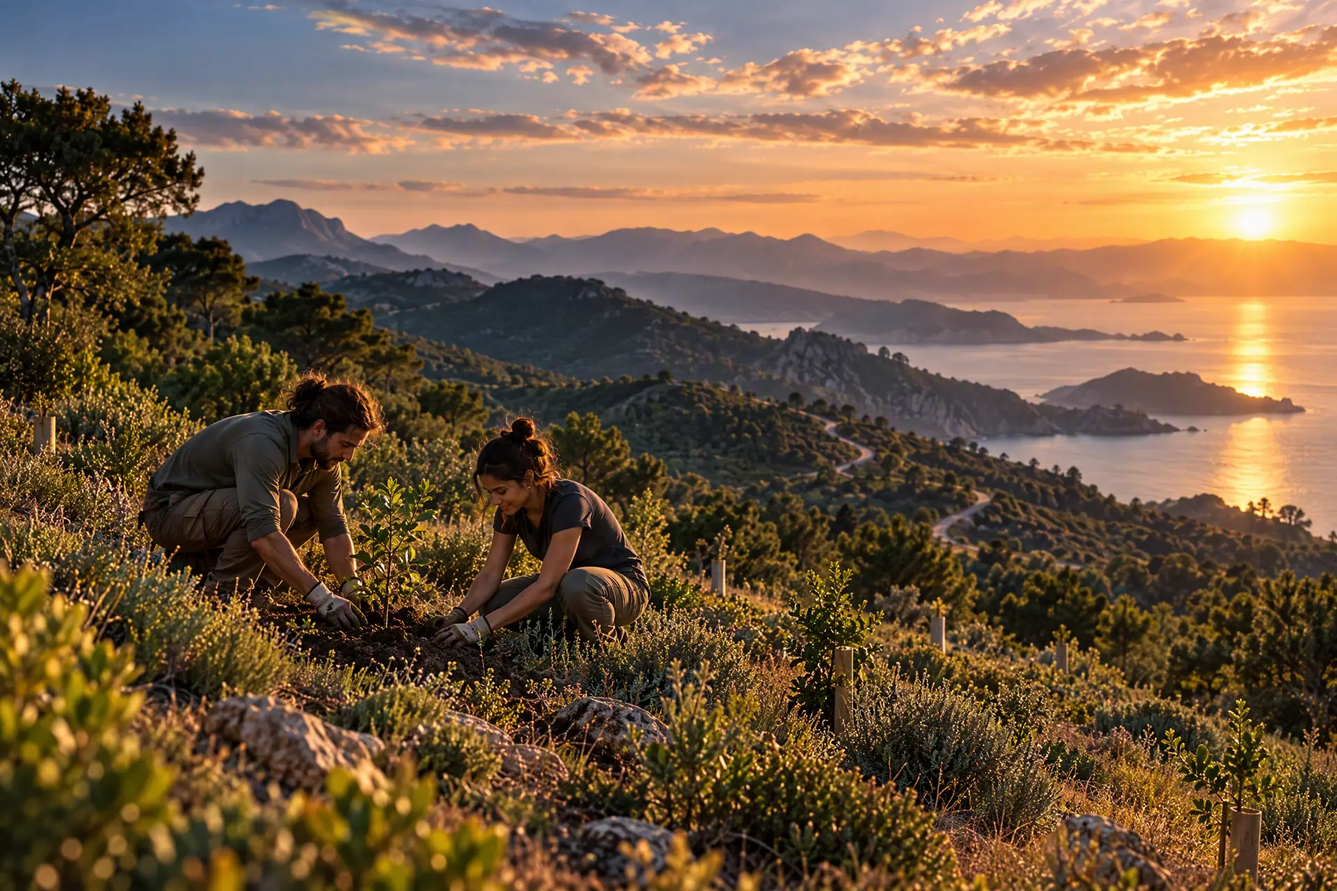
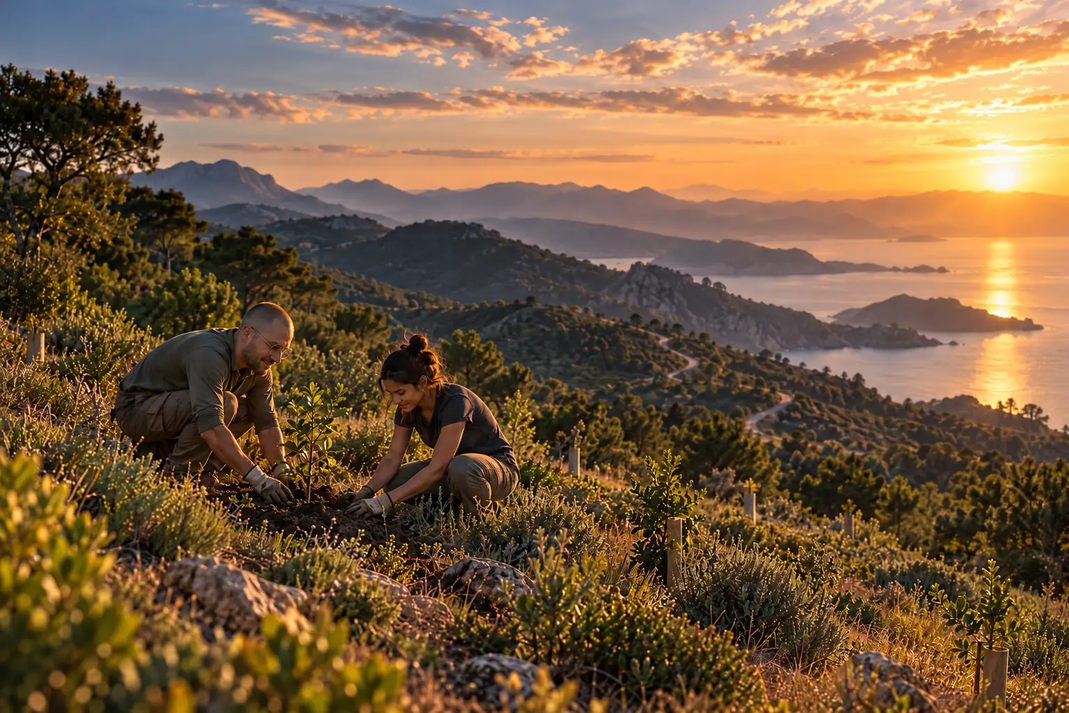
News, Erasmus+/ESC OID and new photos
- Five news items built into the site (ES/EN/RU/UK), shown together with
  the Google Sheet news and present in the prerendered HTML.
- Erasmus+ / European Solidarity Corps OID E10445982 on the identity page
  and in the footer.
- New photos: people photos replace community, planting, team, horizon and
  learning; new river, coast and whale images for Ideology, News and Mission
  heroes; branded images for news cards.

Claude-Session: https://claude.ai/code/session_01RTgsmULxAXM4gvJsgFLPDE

diff --git a/client/src/lib/siteNews.ts b/client/src/lib/siteNews.ts
@@ -1,0 +1,69 @@
+import type { NewsItem } from "./content";
+
+/**
+ * News published with the website itself. They are always shown, together with
+ * the news added in the "Noticias" tab of the Google Sheet (newest first).
+ * One entry per language; Asturian falls back to Spanish.
+ */
+type Lang = "es" | "en" | "ru" | "uk";
+type Story = { id: string; fecha: string; imagen: string; enlace?: string; text: Record<Lang, { titulo: string; resumen: string; texto: string }> };
+
+const stories: Story[] = [
+  {
+    id: "nueva-web-2026", fecha: "2026-10-26", imagen: "/assets/photos/spiral-logo-960.webp",
+    text: {
+      es: { titulo: "Estrenamos web: más clara, más rápida y en cinco idiomas", resumen: "La nueva web de INICIA Foundation reúne en un solo lugar nuestros proyectos, las formas de colaborar y el acceso directo a la ayuda.", texto: "Hemos renovado por completo nuestra web para que cualquier persona encuentre lo que necesita en pocos segundos: pedir ayuda, apuntarse como voluntario/a, proponer una alianza o hacer un donativo.\n\nLa web está disponible en español, inglés, ruso, ucraniano y asturiano, funciona en cualquier móvil y carga rápido incluso con conexiones lentas. El catálogo de proyectos muestra el estado real de cada iniciativa, para que quien quiera sumarse sepa en qué punto estamos.\n\nEs un paso más hacia una organización abierta, transparente y cercana." },
+      en: { titulo: "Our new website: clearer, faster and in five languages", resumen: "INICIA Foundation's new website brings together our projects, ways to get involved and direct access to help.", texto: "We have completely renewed our website so that anyone can find what they need in seconds: ask for help, sign up as a volunteer, propose a partnership or make a donation.\n\nThe site is available in Spanish, English, Russian, Ukrainian and Asturian, works on any phone and loads quickly even on slow connections. The project catalogue shows the real status of each initiative, so anyone who wants to join knows where we stand.\n\nIt is one more step towards an open, transparent and approachable organisation." },
+      ru: { titulo: "Новый сайт: понятнее, быстрее и на пяти языках", resumen: "На новом сайте INICIA Foundation собраны наши проекты, способы участия и прямой доступ к помощи.", texto: "Мы полностью обновили сайт, чтобы каждый за несколько секунд находил нужное: попросить о помощи, записаться волонтёром, предложить сотрудничество или сделать пожертвование.\n\nСайт работает на испанском, английском, русском, украинском и астурийском языках, удобен на любом телефоне и быстро загружается даже при медленном интернете. В каталоге проектов указан реальный статус каждой инициативы — чтобы тот, кто хочет присоединиться, видел, на каком этапе мы находимся.\n\nЭто ещё один шаг к открытой, прозрачной и близкой людям организации." },
+      uk: { titulo: "Новий сайт: зрозуміліший, швидший і п’ятьма мовами", resumen: "На новому сайті INICIA Foundation зібрані наші проєкти, способи долучитися та прямий доступ до допомоги.", texto: "Ми повністю оновили сайт, щоб кожен за кілька секунд знаходив потрібне: попросити про допомогу, записатися волонтером, запропонувати співпрацю або зробити пожертву.\n\nСайт працює іспанською, англійською, російською, українською та астурійською мовами, зручний на будь-якому телефоні та швидко завантажується навіть за повільного інтернету. У каталозі проєктів зазначено реальний статус кожної ініціативи — щоб той, хто хоче долучитися, бачив, на якому етапі ми перебуваємо.\n\nЦе ще один крок до відкритої, прозорої та близької до людей організації." },
+    },
+  },
+  {
+    id: "erasmus-esc-2026", fecha: "2026-10-26", imagen: "/assets/photos/sea-logo-960.webp",
+    text: {
+      es: { titulo: "Con nueva fuerza en Erasmus+ y el Cuerpo Europeo de Solidaridad", resumen: "Este otoño damos un nuevo impulso a nuestro trabajo en los programas europeos de juventud, aprendizaje y voluntariado.", texto: "INICIA Foundation cuenta con su identificador de organización en los programas europeos (OID E10445982), la llave para participar en Erasmus+ y en el Cuerpo Europeo de Solidaridad.\n\nEn octubre retomamos este trabajo con nueva fuerza: preparamos proyectos de cooperación e intercambios de aprendizaje y avanzamos hacia el sello de calidad para acoger a jóvenes voluntarios y voluntarias de toda Europa.\n\nQueremos que las personas y familias que acompañamos, y nuestros equipos de voluntariado, formen parte de una red europea de aprendizaje y solidaridad." },
+      en: { titulo: "Renewed energy in Erasmus+ and the European Solidarity Corps", resumen: "This autumn we are giving new momentum to our work in the European youth, learning and volunteering programmes.", texto: "INICIA Foundation holds its organisation ID for the European programmes (OID E10445982), the key to taking part in Erasmus+ and the European Solidarity Corps.\n\nIn October we are taking this work forward with renewed energy: we are preparing cooperation projects and learning exchanges, and working towards the quality label for hosting young volunteers from all over Europe.\n\nWe want the people and families we support, and our volunteer teams, to be part of a European network of learning and solidarity." },
+      ru: { titulo: "С новыми силами в Erasmus+ и Европейском корпусе солидарности", resumen: "Этой осенью мы даём новый импульс работе в европейских программах для молодёжи, обучения и волонтёрства.", texto: "У INICIA Foundation есть идентификатор организации в европейских программах (OID E10445982) — ключ к участию в Erasmus+ и Европейском корпусе солидарности.\n\nВ октябре мы с новыми силами берёмся за эту работу: готовим проекты сотрудничества и образовательные обмены, движемся к знаку качества для приёма молодых волонтёров со всей Европы.\n\nМы хотим, чтобы люди и семьи, которых мы сопровождаем, и наши волонтёрские команды стали частью европейской сети обучения и солидарности." },
+      uk: { titulo: "З новими силами в Erasmus+ і Європейському корпусі солідарності", resumen: "Цієї осені ми даємо новий імпульс роботі в європейських програмах для молоді, навчання та волонтерства.", texto: "INICIA Foundation має ідентифікатор організації в європейських програмах (OID E10445982) — ключ до участі в Erasmus+ і Європейському корпусі солідарності.\n\nУ жовтні ми з новими силами беремося за цю роботу: готуємо проєкти співпраці та освітні обміни, рухаємося до знака якості для прийому молодих волонтерів з усієї Європи.\n\nМи хочемо, щоб люди та родини, яких ми супроводжуємо, і наші волонтерські команди стали частиною європейської мережі навчання та солідарності." },
+    },
+  },
+  {
+    id: "redes-sociales-2026", fecha: "2026-10-26", imagen: "/assets/photos/community-960.webp", enlace: "https://iniciafoundation.org/contacto?tipo=voluntariado",
+    text: {
+      es: { titulo: "Impulsamos nuestras redes sociales: ¿te sumas al equipo?", resumen: "En octubre empezamos a desarrollar nuestras redes sociales y buscamos personas voluntarias que quieran ayudarnos a contar lo que hacemos.", texto: "Queremos que más personas conozcan nuestros proyectos y que quien necesita ayuda nos encuentre fácilmente. Por eso, desde octubre estamos desarrollando nuestras redes sociales.\n\nSi te gusta la fotografía, el vídeo, el diseño, la redacción o la gestión de redes, este es tu sitio. No hace falta experiencia profesional: lo importante son las ganas de aprender y de contar historias que inspiran.\n\nApúntate como voluntario/a eligiendo «Comunicación, redes y diseño» en el formulario." },
+      en: { titulo: "We are growing our social media: will you join the team?", resumen: "In October we started developing our social media and we are looking for volunteers to help us tell our story.", texto: "We want more people to know about our projects and those who need help to find us easily. That is why, since October, we have been developing our social media.\n\nIf you enjoy photography, video, design, writing or social media, this is your place. No professional experience needed: what matters is the wish to learn and to tell inspiring stories.\n\nSign up as a volunteer and choose “Communication, social media and design” in the form." },
+      ru: { titulo: "Развиваем соцсети: присоединяйтесь к команде!", resumen: "В октябре мы начали развивать наши социальные сети и ищем волонтёров, которые помогут рассказывать о нашей работе.", texto: "Мы хотим, чтобы о наших проектах узнало больше людей, а те, кому нужна помощь, легко нас находили. Поэтому с октября мы развиваем наши социальные сети.\n\nЕсли вам нравятся фото, видео, дизайн, тексты или ведение соцсетей — вам к нам. Профессиональный опыт не обязателен: главное — желание учиться и рассказывать вдохновляющие истории.\n\nЗапишитесь волонтёром и выберите в форме «Соцсети, дизайн, коммуникации»." },
+      uk: { titulo: "Розвиваємо соцмережі: долучайтеся до команди!", resumen: "У жовтні ми почали розвивати наші соціальні мережі та шукаємо волонтерів, які допоможуть розповідати про нашу роботу.", texto: "Ми хочемо, щоб про наші проєкти дізналося більше людей, а ті, кому потрібна допомога, легко нас знаходили. Тому з жовтня ми розвиваємо наші соціальні мережі.\n\nЯкщо вам подобаються фото, відео, дизайн, тексти або ведення соцмереж — вам до нас. Професійний досвід не обов’язковий: головне — бажання вчитися та розповідати надихаючі історії.\n\nЗапишіться волонтером і оберіть у формі «Соцмережі, дизайн, комунікації»." },
+    },
+  },
+  {
+    id: "noviembre-diciembre-2026", fecha: "2026-10-26", imagen: "/assets/photos/river-logo-960.webp",
+    text: {
+      es: { titulo: "Noviembre y diciembre: llegan nuevas actividades", resumen: "Estamos preparando actividades y encuentros para el final del año. Muy pronto, todos los detalles.", texto: "Cerramos el año con energía: para noviembre y diciembre estamos preparando nuevas actividades, encuentros y acciones solidarias abiertas a familias, voluntariado y entidades colaboradoras.\n\nPublicaremos aquí las fechas y la forma de participar. Sigue esta sección de noticias y nuestras redes sociales; muy pronto abriremos también nuestro boletín de novedades.\n\n¿Quieres proponer una actividad o colaborar en su organización? Escríbenos." },
+      en: { titulo: "November and December: new activities are coming", resumen: "We are preparing activities and gatherings for the end of the year. Full details very soon.", texto: "We are closing the year with energy: for November and December we are preparing new activities, gatherings and solidarity actions open to families, volunteers and partner organisations.\n\nWe will publish the dates and how to take part here. Follow this news section and our social media; we will soon also launch our newsletter.\n\nWould you like to propose an activity or help organise one? Write to us." },
+      ru: { titulo: "Ноябрь и декабрь: впереди новые мероприятия", resumen: "Мы готовим мероприятия и встречи к концу года. Подробности — совсем скоро.", texto: "Мы завершаем год с энергией: на ноябрь и декабрь готовим новые мероприятия, встречи и благотворительные акции, открытые для семей, волонтёров и партнёрских организаций.\n\nДаты и способы участия опубликуем здесь. Следите за новостями и нашими соцсетями — совсем скоро мы также запустим рассылку новостей.\n\nХотите предложить мероприятие или помочь его организовать? Напишите нам." },
+      uk: { titulo: "Листопад і грудень: попереду нові заходи", resumen: "Ми готуємо заходи та зустрічі на кінець року. Подробиці — зовсім скоро.", texto: "Ми завершуємо рік з енергією: на листопад і грудень готуємо нові заходи, зустрічі та благодійні акції, відкриті для родин, волонтерів і партнерських організацій.\n\nДати та способи участі опублікуємо тут. Стежте за новинами та нашими соцмережами — зовсім скоро ми також запустимо розсилку новин.\n\nХочете запропонувати захід або допомогти його організувати? Напишіть нам." },
+    },
+  },
+  {
+    id: "google-nonprofits-2026", fecha: "2026-10-26", imagen: "/assets/photos/horizon-960.webp",
+    text: {
+      es: { titulo: "Google reconoce a INICIA como entidad sin ánimo de lucro", resumen: "Hemos sido verificados en Google for Nonprofits y aprobados en el programa de YouTube para organizaciones sin ánimo de lucro.", texto: "INICIA Foundation ha sido verificada en Google for Nonprofits, el programa con el que Google apoya a entidades sociales de todo el mundo, y ha sido admitida en el programa de YouTube para organizaciones sin ánimo de lucro.\n\nEstas herramientas nos ayudan a trabajar mejor en equipo, a difundir nuestros proyectos y a llegar a más personas que necesitan apoyo o que quieren colaborar, sin coste para la organización.\n\nCada recurso que ahorramos se destina a lo esencial: acompañar a las familias y hacer crecer nuestros proyectos." },
+      en: { titulo: "Google recognises INICIA as a non-profit organisation", resumen: "We have been verified in Google for Nonprofits and approved for YouTube's nonprofit programme.", texto: "INICIA Foundation has been verified in Google for Nonprofits, the programme through which Google supports social organisations worldwide, and has been accepted into YouTube's nonprofit programme.\n\nThese tools help us work better as a team, share our projects and reach more people who need support or want to help, at no cost to the organisation.\n\nEvery resource we save goes to what matters: supporting families and growing our projects." },
+      ru: { titulo: "Google признал INICIA некоммерческой организацией", resumen: "Мы прошли верификацию в Google for Nonprofits и приняты в программу YouTube для некоммерческих организаций.", texto: "INICIA Foundation прошла верификацию в Google for Nonprofits — программе, через которую Google поддерживает социальные организации по всему миру, — и принята в программу YouTube для некоммерческих организаций.\n\nЭти инструменты помогают нам лучше работать командой, рассказывать о проектах и доходить до большего числа людей, которым нужна поддержка или которые хотят помочь, — без затрат для организации.\n\nКаждый сэкономленный ресурс идёт на главное: сопровождение семей и развитие наших проектов." },
+      uk: { titulo: "Google визнав INICIA неприбутковою організацією", resumen: "Ми пройшли верифікацію в Google for Nonprofits і прийняті до програми YouTube для неприбуткових організацій.", texto: "INICIA Foundation пройшла верифікацію в Google for Nonprofits — програмі, через яку Google підтримує соціальні організації по всьому світу, — і прийнята до програми YouTube для неприбуткових організацій.\n\nЦі інструменти допомагають нам краще працювати командою, розповідати про проєкти та охоплювати більше людей, яким потрібна підтримка або які хочуть допомогти, — без витрат для організації.\n\nКожен заощаджений ресурс іде на головне: супровід родин і розвиток наших проєктів." },
+    },
+  },
+];
+
+export const SITE_NEWS: NewsItem[] = stories.flatMap(story =>
+  (Object.keys(story.text) as Lang[]).map(idioma => ({
+    id: `${story.id}-${idioma}`, fecha: story.fecha, imagen: story.imagen, enlace: story.enlace ?? "", proyecto: "", idioma, ...story.text[idioma],
+  })),
+);
+
+/** Sheet news and built-in stories together, newest first (stable for equal dates). */
+export function withSiteNews(news: NewsItem[]): NewsItem[] {
+  const ids = new Set(news.map(item => item.id));
+  return [...news, ...SITE_NEWS.filter(item => !ids.has(item.id))].sort((a, b) => (b.fecha || "").localeCompare(a.fecha || ""));
+}

diff --git a/client/src/pages/LegalIdentity.tsx b/client/src/pages/LegalIdentity.tsx
@@ -1,4 +1,4 @@
-import { Building2, FileCheck2, MapPin } from "lucide-react";
+import { Building2, FileCheck2, Globe2, MapPin } from "lucide-react";
 import { OriginalSiteNavigation } from "@/components/OriginalSiteNavigation";
 import { SiteFooter } from "@/components/SiteFooter";
 import { type Locale, useLocale } from "@/lib/i18n";
@@ -13,6 +13,8 @@ type LegalCopy = {
   registryTitle: string;
   registryNote: string;
   registryNumber: string;
+  europeTitle: string;
+  europeText: string;
   pendingTitle: string;
   pendingText: string;
 };
@@ -28,6 +30,8 @@ const copy: Record<Locale, LegalCopy> = {
     registryTitle: "Registro",
     registryNote: "",
     registryNumber: "Número de inscripción 13148",
+    europeTitle: "Programas europeos",
+    europeText: "Identificador de organización (OID) en Erasmus+ y el Cuerpo Europeo de Solidaridad",
     pendingTitle: "Documentos en validación jurídica",
     pendingText: "La política de privacidad, el canal de derechos ARCO-POL, el plazo de conservación, las condiciones de socio/a, las cuotas, los eventuales beneficios fiscales, el acuerdo de incorporación de voluntariado y sus seguros solo se publicarán cuando la organización aporte sus versiones definitivas aprobadas. El portal no presenta estos documentos como vigentes mientras ese proceso está pendiente.",
   },
@@ -41,6 +45,8 @@ const copy: Record<Locale, LegalCopy> = {
     registryTitle: "Registry",
     registryNote: "(Register of Associations of the Principality of Asturias)",
     registryNumber: "Registration number 13148",
+    europeTitle: "European programmes",
+    europeText: "Organisation ID (OID) for Erasmus+ and the European Solidarity Corps",
     pendingTitle: "Documents under legal review",
     pendingText: "The privacy policy, the channel for exercising data protection rights (ARCO-POL), the data retention period, membership conditions, fees, any tax benefits, the volunteer agreement and its insurance will only be published once the organisation provides their final approved versions. While this process is pending, the website does not present these documents as being in force.",
   },
@@ -54,6 +60,8 @@ const copy: Record<Locale, LegalCopy> = {
     registryTitle: "Реестр",
     registryNote: "(Реестр ассоциаций Княжества Астурия)",
     registryNumber: "Регистрационный номер 13148",
+    europeTitle: "Европейские программы",
+    europeText: "Идентификатор организации (OID) в Erasmus+ и Европейском корпусе солидарности",
     pendingTitle: "Документы на юридической проверке",
     pendingText: "Политика конфиденциальности, порядок реализации прав субъектов персональных данных (ARCO-POL), срок хранения данных, условия членства, членские взносы, возможные налоговые льготы, соглашение о волонтёрской деятельности и страхование волонтёров будут опубликованы только после того, как организация предоставит их окончательные утверждённые редакции. Пока этот процесс не завершён, сайт не представляет эти документы как действующие.",
   },
@@ -67,6 +75,8 @@ const copy: Record<Locale, LegalCopy> = {
     registryTitle: "Реєстр",
     registryNote: "(Реєстр асоціацій Князівства Астурія)",
     registryNumber: "Реєстраційний номер 13148",
+    europeTitle: "Європейські програми",
+    europeText: "Ідентифікатор організації (OID) в Erasmus+ і Європейському корпусі солідарності",
     pendingTitle: "Документи на юридичній перевірці",
     pendingText: "Політику конфіденційності, порядок реалізації прав суб’єктів персональних даних (ARCO-POL), строк зберігання даних, умови членства, членські внески, можливі податкові пільги, угоду про волонтерську діяльність і страхування волонтерів буде опубліковано лише після того, як організація надасть їхні остаточні затверджені редакції. Доки цей процес не завершено, сайт не подає ці документи як чинні.",
   },
@@ -80,6 +90,8 @@ const copy: Record<Locale, LegalCopy> = {
     registryTitle: "Rexistru",
     registryNote: "(Rexistru d'Asociaciones del Principáu d'Asturies)",
     registryNumber: "Númberu d'inscripción 13148",
+    europeTitle: "Programes européos",
+    europeText: "Identificador d'organización (OID) n'Erasmus+ y nel Cuerpu Européu de Solidaridá",
     pendingTitle: "Documentos en validación xurídica",
     pendingText: "La política de privacidá, la canal de derechos ARCO-POL, el plazu de caltenimientu, les condiciones de sociu/a, les cuotes, los eventuales beneficios fiscales, l'alcuerdu d'incorporación de voluntariáu y los sos seguros namás se van publicar cuando la organización apurra les sos versiones definitives aprobaes. El portal nun presenta estos documentos como vixentes mentanto esi procesu tea pendiente.",
   },
@@ -90,10 +102,11 @@ export default function LegalIdentity() {
   const t = copy[locale];
   return <main className="min-h-screen bg-[#060A12] text-[#EEE7D7]"><OriginalSiteNavigation dark />
     <section className="mx-auto max-w-5xl px-5 py-16"><p className="text-sm font-bold uppercase tracking-[.18em] text-[#D6B25E]">{t.eyebrow}</p><h1 className="mt-3 font-serif text-5xl text-[#EEE7D7]">{t.title}</h1><p className="mt-5 max-w-3xl text-lg leading-8 text-slate-300">{t.intro}</p>
-      <div className="mt-10 grid gap-5 md:grid-cols-3">
+      <div className="mt-10 grid gap-5 md:grid-cols-2 lg:grid-cols-4">
         <article className="rounded-2xl border border-[#D6B25E]/20 bg-[#0C1320] p-6 shadow-sm"><Building2 className="h-6 w-6 text-[#D6B25E]" /><h2 className="mt-4 font-serif text-2xl text-[#EEE7D7]">{t.entityTitle}</h2><p className="mt-3 text-sm leading-6 text-slate-300"><strong>ASOCIACIÓN Inicia Foundation</strong><br />NIF/CIF: G05426242<br />{t.scope}</p></article>
         <article className="rounded-2xl border border-[#D6B25E]/20 bg-[#0C1320] p-6 shadow-sm"><MapPin className="h-6 w-6 text-[#D6B25E]" /><h2 className="mt-4 font-serif text-2xl text-[#EEE7D7]">{t.addressTitle}</h2><p className="mt-3 text-sm leading-6 text-slate-300">Avenida Manuel Llaneza, 68<br />Gijón, Asturias, España</p></article>
         <article className="rounded-2xl border border-[#D6B25E]/20 bg-[#0C1320] p-6 shadow-sm"><FileCheck2 className="h-6 w-6 text-[#D6B25E]" /><h2 className="mt-4 font-serif text-2xl text-[#EEE7D7]">{t.registryTitle}</h2><p className="mt-3 text-sm leading-6 text-slate-300">Registro de Asociaciones del Principado de Asturias{t.registryNote && <><br /><span className="text-slate-400">{t.registryNote}</span></>}<br />{t.registryNumber}</p></article>
+        <article className="rounded-2xl border border-[#D6B25E]/20 bg-[#0C1320] p-6 shadow-sm"><Globe2 className="h-6 w-6 text-[#D6B25E]" /><h2 className="mt-4 font-serif text-2xl text-[#EEE7D7]">{t.europeTitle}</h2><p className="mt-3 text-sm leading-6 text-slate-300">{t.europeText}<br /><strong className="text-[#F0D893]">OID: E10445982</strong></p></article>
       </div>
       <section className="mt-10 rounded-3xl border border-[#D6B25E]/50 bg-[#D6B25E]/10 p-7"><h2 className="font-serif text-3xl text-[#EEE7D7]">{t.pendingTitle}</h2><p className="mt-3 max-w-3xl leading-7 text-slate-200">{t.pendingText}</p></section>
     </section>

diff --git a/client/src/pages/News.tsx b/client/src/pages/News.tsx
@@ -25,7 +25,7 @@ export default function News() {
 
   return <main className="min-h-screen bg-[#060A12] text-[#EEE7D7]">
     <OriginalSiteNavigation dark />
-    <section className="relative isolate overflow-hidden bg-[#060A12] bg-[#08101E] px-5 pt-28 pb-24 text-white"><img src="/assets/photos/earth-1920.webp" srcSet="/assets/photos/earth-960.webp 960w, /assets/photos/earth-1920.webp 1920w" sizes="100vw" alt="" fetchPriority="high" className="absolute inset-0 -z-20 h-full w-full object-cover" /><div className="absolute inset-0 -z-10 bg-gradient-to-r from-[#060A12] via-[#060A12]/80 to-[#060A12]/25" /><div className="absolute inset-x-0 bottom-0 -z-10 h-32 bg-gradient-to-t from-[#060A12] to-transparent" /><SpiralMark className="pointer-events-none absolute -right-20 -top-6 -z-10 hidden h-[400px] w-[400px] opacity-40 md:block" /><div className="relative mx-auto max-w-6xl"><p className="text-xs font-bold uppercase tracking-[.2em] text-[#D6B25E]">{t.eyebrow}</p><h1 className="mt-4 font-serif text-5xl md:text-6xl">{t.title} <span className="italic text-[#F0D893]">{t.accent}</span></h1><p className="mt-5 max-w-2xl text-lg leading-8 text-slate-200">{t.intro}</p></div></section>
+    <section className="relative isolate overflow-hidden bg-[#060A12] bg-[#08101E] px-5 pt-28 pb-24 text-white"><img src="/assets/photos/coast-1920.webp" srcSet="/assets/photos/coast-960.webp 960w, /assets/photos/coast-1920.webp 1920w" sizes="100vw" alt="" fetchPriority="high" className="absolute inset-0 -z-20 h-full w-full object-cover" /><div className="absolute inset-0 -z-10 bg-gradient-to-r from-[#060A12] via-[#060A12]/80 to-[#060A12]/25" /><div className="absolute inset-x-0 bottom-0 -z-10 h-32 bg-gradient-to-t from-[#060A12] to-transparent" /><SpiralMark className="pointer-events-none absolute -right-20 -top-6 -z-10 hidden h-[400px] w-[400px] opacity-40 md:block" /><div className="relative mx-auto max-w-6xl"><p className="text-xs font-bold uppercase tracking-[.2em] text-[#D6B25E]">{t.eyebrow}</p><h1 className="mt-4 font-serif text-5xl md:text-6xl">{t.title} <span className="italic text-[#F0D893]">{t.accent}</span></h1><p className="mt-5 max-w-2xl text-lg leading-8 text-slate-200">{t.intro}</p></div></section>
 
     {events.length > 0 && <section className="mx-auto max-w-6xl px-5 pt-14"><h2 className="font-serif text-3xl">{t.events}</h2><div className="mt-5 grid gap-4 md:grid-cols-3">{events.map(event => <article key={`${event.fecha}-${event.titulo}`} className="rounded-2xl bg-[#0C1320] p-5 shadow-sm ring-1 ring-[#D6B25E]/20"><p className="flex items-center gap-2 text-xs font-bold uppercase tracking-[.14em] text-[#D6B25E]"><CalendarDays className="h-4 w-4" />{formatDate(event.fecha, locale)}{event.hora && ` · ${event.hora}`}</p><h3 className="mt-2 font-serif text-2xl">{event.titulo}</h3>{event.lugar && <p className="mt-1 text-sm text-slate-300">{event.lugar}</p>}<a href={event.enlace || "/contacto"} className="mt-3 inline-flex text-sm font-bold underline decoration-[#D6B25E] decoration-2 underline-offset-4">{t.join}</a></article>)}</div></section>}
 
@@ -34,7 +34,7 @@ export default function News() {
         : <div className="grid gap-6 md:grid-cols-2 lg:grid-cols-3">{news.map(item => <article key={item.id} className="flex flex-col overflow-hidden rounded-3xl bg-[#0C1320] shadow-sm ring-1 ring-[#D6B25E]/20">
           {item.imagen ? <img src={item.imagen} alt="" loading="lazy" className="aspect-[16/10] w-full object-cover" /> : <div className="relative aspect-[16/10] w-full overflow-hidden bg-[#0A1424]"><SpiralMark className="absolute inset-6 opacity-40" /></div>}
           <div className="flex flex-1 flex-col p-6"><p className="text-xs font-bold uppercase tracking-[.14em] text-[#D6B25E]">{formatDate(item.fecha, locale)}{item.proyecto && ` · ${item.proyecto}`}</p><h2 className="mt-3 font-serif text-2xl leading-tight">{item.titulo}</h2><p className="mt-3 text-sm leading-6 text-slate-300">{item.resumen}</p>
-            {open === item.id && item.texto && <div className="mt-4 whitespace-pre-line text-sm leading-7 text-slate-200">{item.texto}</div>}
+            {item.texto && <div hidden={open !== item.id} className="mt-4 whitespace-pre-line text-sm leading-7 text-slate-200">{item.texto}</div>}
             <div className="mt-auto flex flex-wrap gap-4 pt-5">{item.texto && <button type="button" onClick={() => setOpen(open === item.id ? undefined : item.id)} className="text-sm font-bold underline decoration-[#D6B25E] decoration-2 underline-offset-4">{open === item.id ? t.less : t.more}</button>}{item.enlace && <a href={item.enlace} target="_blank" rel="noreferrer" className="inline-flex items-center text-sm font-bold text-[#D6B25E]">{t.source}<ArrowRight className="ml-1 h-4 w-4" /></a>}</div>
           </div></article>)}</div>}
     </section>

diff --git a/client/src/pages/Mission.tsx b/client/src/pages/Mission.tsx
@@ -189,7 +189,7 @@ export default function Mission() {
   const [locale] = useLocale();
   const t = copy[locale];
   return <main className="min-h-screen bg-[#060A12] text-[#EEE7D7]"><OriginalSiteNavigation />
-    <section className="relative isolate overflow-hidden bg-[#060A12] bg-[#08101E] pt-28 pb-24 text-white"><img src="/assets/photos/energy-1920.webp" srcSet="/assets/photos/energy-960.webp 960w, /assets/photos/energy-1920.webp 1920w" sizes="100vw" alt="" fetchPriority="high" className="absolute inset-0 -z-20 h-full w-full object-cover" /><div className="absolute inset-0 -z-10 bg-gradient-to-r from-[#060A12] via-[#060A12]/80 to-[#060A12]/25" /><div className="absolute inset-x-0 bottom-0 -z-10 h-32 bg-gradient-to-t from-[#060A12] to-transparent" /><div className="mx-auto max-w-7xl px-5"><p className="text-xs font-bold uppercase tracking-[.2em] text-[#D6B25E]">INICIA Foundation</p><h1 className="mt-4 max-w-4xl font-serif text-5xl leading-tight md:text-7xl">{t.title}</h1><p className="mt-7 max-w-3xl text-lg leading-8 text-slate-200">{t.intro}</p></div></section>
+    <section className="relative isolate overflow-hidden bg-[#060A12] bg-[#08101E] pt-28 pb-24 text-white"><img src="/assets/photos/whale-1920.webp" srcSet="/assets/photos/whale-960.webp 960w, /assets/photos/whale-1920.webp 1920w" sizes="100vw" alt="" fetchPriority="high" className="absolute inset-0 -z-20 h-full w-full object-cover" /><div className="absolute inset-0 -z-10 bg-gradient-to-r from-[#060A12] via-[#060A12]/80 to-[#060A12]/25" /><div className="absolute inset-x-0 bottom-0 -z-10 h-32 bg-gradient-to-t from-[#060A12] to-transparent" /><div className="mx-auto max-w-7xl px-5"><p className="text-xs font-bold uppercase tracking-[.2em] text-[#D6B25E]">INICIA Foundation</p><h1 className="mt-4 max-w-4xl font-serif text-5xl leading-tight md:text-7xl">{t.title}</h1><p className="mt-7 max-w-3xl text-lg leading-8 text-slate-200">{t.intro}</p></div></section>
     <section className="mx-auto max-w-7xl px-5 py-20"><div className="max-w-4xl"><p className="text-xs font-bold uppercase tracking-[.18em] text-[#D6B25E]">{t.areasEyebrow}</p><h2 className="mt-3 font-serif text-4xl md:text-5xl">{t.areasTitle}</h2><p className="mt-6 leading-8 text-slate-200">{t.areasIntro}</p></div>
       <div className="mt-12 grid gap-5 md:grid-cols-2">{t.areas.map(([title, text], index) => { const Icon = AREA_ICONS[index]; return <article key={title} className="rounded-3xl border border-[#D6B25E]/20 bg-[#0C1320] p-8 shadow-sm"><Icon className="h-7 w-7 text-[#D6B25E]" /><h3 className="mt-5 font-serif text-3xl">{title}</h3><p className="mt-4 leading-7 text-slate-300">{text}</p></article>; })}</div>
       <section className="mt-16 border-t border-[#D6B25E]/20 pt-12"><p className="text-xs font-bold uppercase tracking-[.18em] text-[#D6B25E]">{t.objectivesEyebrow}</p><h2 className="mt-3 max-w-4xl font-serif text-4xl">{t.objectivesTitle}</h2><p className="mt-5 max-w-4xl leading-8 text-slate-200">{t.objectivesIntro}</p><ol className="mt-8 grid gap-4 md:grid-cols-2">{t.objectives.map((objective, index) => <li key={objective} className="flex gap-4 rounded-2xl bg-[#0C1320] p-6 shadow-sm"><span className="grid h-8 w-8 shrink-0 place-items-center rounded-full bg-[#D6B25E] text-sm font-bold text-[#120D05]">{index + 1}</span><p className="text-sm leading-7 text-slate-300">{objective}</p></li>)}</ol></section>

diff --git a/client/src/pages/Ideology.tsx b/client/src/pages/Ideology.tsx
@@ -87,7 +87,7 @@ export default function Ideology() {
   const [locale] = useLocale();
   const t = copy[locale];
   return <main className="min-h-screen bg-[#060A12] text-[#EEE7D7]"><OriginalSiteNavigation />
-    <section className="relative isolate overflow-hidden bg-[#060A12] text-white pt-28 pb-24"><img src="/assets/photos/horizon-1920.webp" srcSet="/assets/photos/horizon-960.webp 960w, /assets/photos/horizon-1920.webp 1920w" sizes="100vw" alt="" fetchPriority="high" className="absolute inset-0 -z-20 h-full w-full object-cover" /><div className="absolute inset-0 -z-10 bg-gradient-to-r from-[#060A12] via-[#060A12]/80 to-[#060A12]/25" /><div className="absolute inset-x-0 bottom-0 -z-10 h-32 bg-gradient-to-t from-[#060A12] to-transparent" /><div className="mx-auto max-w-7xl px-5"><p className="text-xs font-bold uppercase tracking-[.2em] text-[#D6B25E]">INICIA Foundation</p><h1 className="mt-4 max-w-4xl font-serif text-5xl leading-tight md:text-7xl">{t.title}</h1><p className="mt-7 max-w-3xl text-lg leading-8 text-slate-200">{t.intro}</p></div></section>
+    <section className="relative isolate overflow-hidden bg-[#060A12] text-white pt-28 pb-24"><img src="/assets/photos/river-1920.webp" srcSet="/assets/photos/river-960.webp 960w, /assets/photos/river-1920.webp 1920w" sizes="100vw" alt="" fetchPriority="high" className="absolute inset-0 -z-20 h-full w-full object-cover" /><div className="absolute inset-0 -z-10 bg-gradient-to-r from-[#060A12] via-[#060A12]/80 to-[#060A12]/25" /><div className="absolute inset-x-0 bottom-0 -z-10 h-32 bg-gradient-to-t from-[#060A12] to-transparent" /><div className="mx-auto max-w-7xl px-5"><p className="text-xs font-bold uppercase tracking-[.2em] text-[#D6B25E]">INICIA Foundation</p><h1 className="mt-4 max-w-4xl font-serif text-5xl leading-tight md:text-7xl">{t.title}</h1><p className="mt-7 max-w-3xl text-lg leading-8 text-slate-200">{t.intro}</p></div></section>
     <section className="mx-auto max-w-7xl px-5 py-20"><div className="grid gap-5 md:grid-cols-2">{t.principles.map(([title, text], index) => { const Icon = PRINCIPLE_ICONS[index]; return <article key={title} className="rounded-3xl border border-[#D6B25E]/20 bg-[#0C1320] p-8 shadow-sm"><Icon className="h-7 w-7 text-[#D6B25E]" /><h2 className="mt-5 font-serif text-3xl">{title}</h2><p className="mt-4 leading-7 text-slate-300">{text}</p></article>; })}</div>
       <div className="mt-12 rounded-3xl bg-[#08101E] p-8 text-white md:p-10"><h2 className="font-serif text-4xl">{t.practiceTitle}</h2><p className="mt-5 max-w-3xl leading-8 text-slate-200">{t.practiceText}</p><Link href="/mision" className="mt-7 inline-flex items-center rounded-full bg-[#D6B25E] px-5 py-3 text-sm font-bold text-[#120D05]">{t.cta} <ArrowRight className="ml-2 h-4 w-4" /></Link></div>
     </section>

diff --git a/client/src/lib/content.ts b/client/src/lib/content.ts
@@ -1,6 +1,8 @@
 import { useQuery } from "@tanstack/react-query";
+import { useMemo } from "react";
 import type { Locale } from "./i18n";
 import { DEFAULT_SETTINGS, SHEETS_ENDPOINT, SOCIAL_NETWORKS } from "./siteConfig";
+import { withSiteNews } from "./siteNews";
 
 export type NewsItem = { id: string; fecha: string; titulo: string; resumen: string; texto: string; imagen: string; enlace: string; proyecto: string; idioma: string };
 export type Fundraiser = { proyecto: string; objetivo: number; recaudado: number; donantes: number; nota_es?: string; nota_en?: string; nota_ru?: string; nota_uk?: string };
@@ -12,7 +14,7 @@ const EMPTY: SiteContent = { news: [], fundraising: [], events: [], faq: [], set
 
 /** Public content managed in the Google Sheet (tabs Noticias, Recaudacion, Eventos). */
 export function useSiteContent(endpoint = SHEETS_ENDPOINT) {
-  return useQuery({
+  const query = useQuery({
     queryKey: ["site-content", endpoint],
     enabled: Boolean(endpoint),
     staleTime: 5 * 60 * 1000,
@@ -25,6 +27,11 @@ export function useSiteContent(endpoint = SHEETS_ENDPOINT) {
     },
     placeholderData: EMPTY,
   });
+  // News written into the website are always shown, alongside the sheet's,
+  // even while the sheet is loading or cannot be reached.
+  const base = query.data ?? EMPTY;
+  const data = useMemo(() => ({ ...base, news: withSiteNews(base.news) }), [base]);
+  return { ...query, data };
 }
 
 /** Items in the visitor's language, or marked for all languages; falls back to Spanish. */

diff --git a/client/src/components/SiteFooter.tsx b/client/src/components/SiteFooter.tsx
@@ -22,7 +22,7 @@ export function SiteFooter() {
       <div><p className="font-bold text-[#D6B25E]">{t.help}</p>{t.help2.map(([label, href]) => <Link key={href} className="mt-2.5 block text-sm hover:text-[#F0D893]" href={href}>{label}</Link>)}</div>
     </div>
     <div className="mx-auto mt-10 max-w-7xl border-t border-white/15 px-5 pt-5 text-xs leading-6 text-slate-400">
-      <p>Asociación Inicia Foundation · NIF G05426242 · Registro de Asociaciones del Principado de Asturias nº 13148 · Av. Manuel Llaneza, 68, 33208 Gijón (Asturias), España</p>
+      <p>Asociación Inicia Foundation · NIF G05426242 · Registro de Asociaciones del Principado de Asturias nº 13148 · Erasmus+ / Cuerpo Europeo de Solidaridad OID E10445982 · Av. Manuel Llaneza, 68, 33208 Gijón (Asturias), España</p>
       <div className="mt-2 flex flex-wrap justify-between gap-3"><span>© {new Date().getFullYear()} Inicia Foundation. {t.rights}</span><span className="flex flex-wrap gap-x-4 gap-y-1"><Link href="/aviso-legal" className="hover:text-[#F0D893]">{t.legal}</Link><Link href="/privacidad" className="hover:text-[#F0D893]">{t.privacy}</Link><Link href="/cookies" className="hover:text-[#F0D893]">{t.cookies}</Link><button type="button" onClick={openConsentSettings} className="hover:text-[#F0D893]">{t.cookieSettings}</button><Link href="/identidad" className="hover:text-[#F0D893]">NIF / Registro</Link></span></div>
     </div>
   </footer>;

diff --git a/client/src/lib/photos.ts b/client/src/lib/photos.ts
@@ -1,5 +1,5 @@
 /** Brand photography (WebP, 960w and 1920w) stored in client/public/assets/photos. */
-export type PhotoName = "earth" | "community" | "planting" | "team" | "seedling" | "horizon" | "learning" | "energy" | "vision";
+export type PhotoName = "earth" | "community" | "planting" | "team" | "seedling" | "horizon" | "learning" | "energy" | "vision" | "river" | "coast" | "whale" | "river-logo" | "sea-logo" | "spiral-logo";
 
 export function photo(name: PhotoName) {
   const base = `/assets/photos/${name}`;
